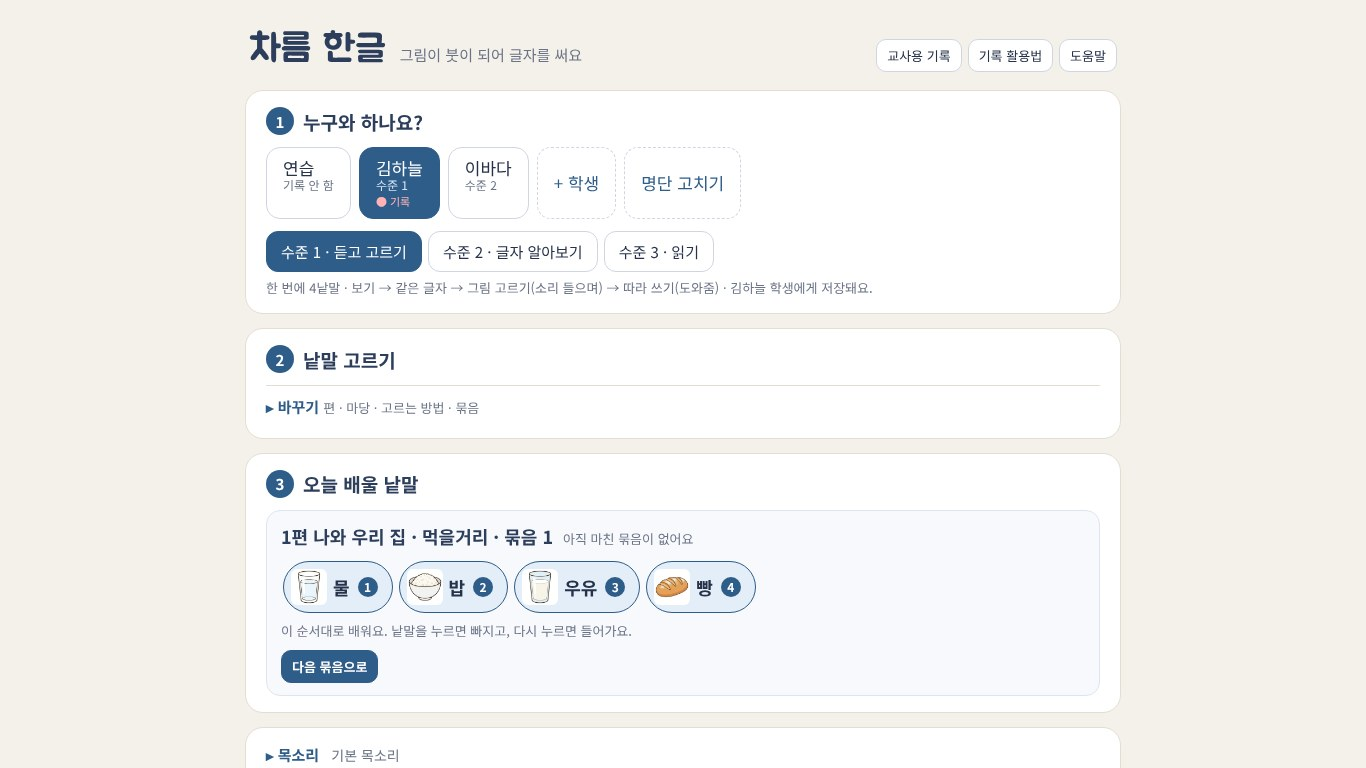
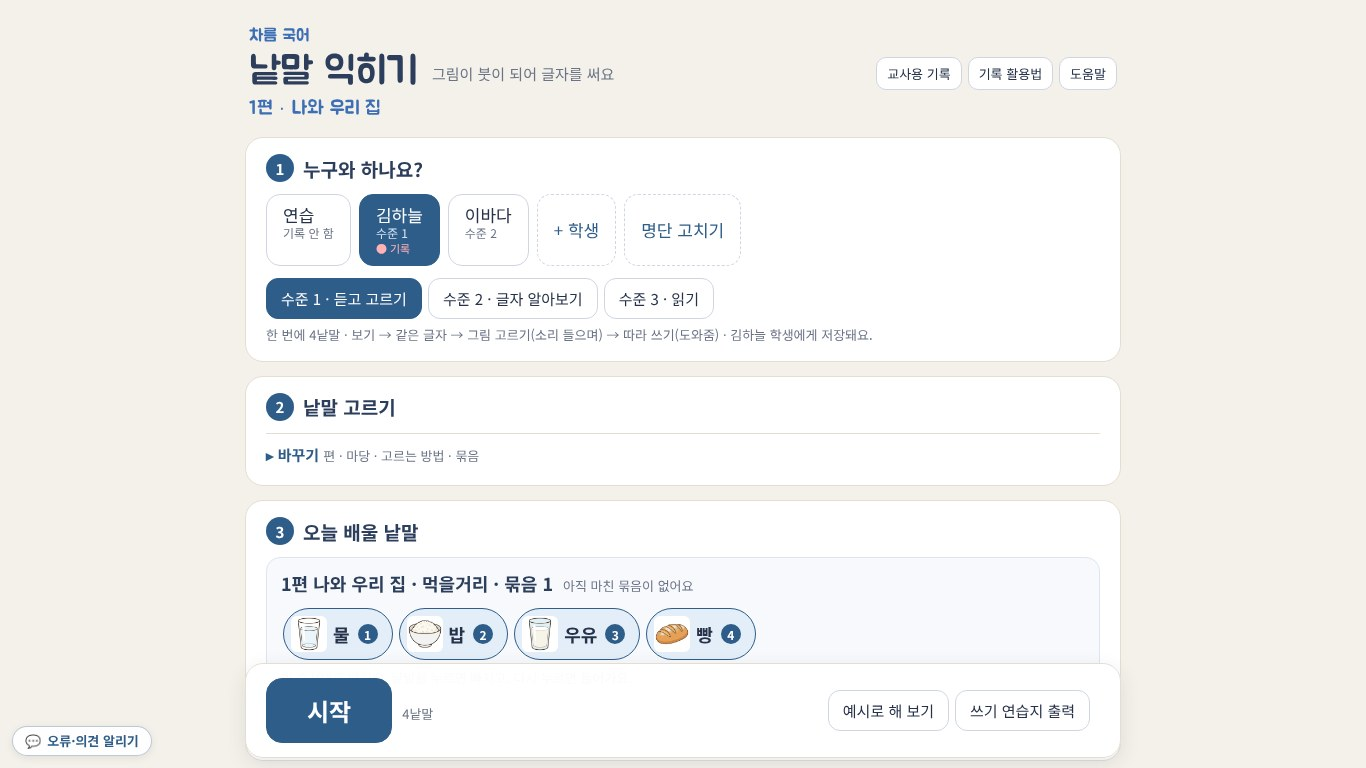
007 제목 '[차름 국어] 낱말 익히기'(1편 판: 1편 · 나와 우리 집): 화면 제목 세 줄(차름 국어 / 낱말 익히기 / 1편 · 나와 우리 집), title·인쇄 머리·확인 창·내가 넣은 낱말 파일, 설명서·자세한 설명·기록 활용법·README·불러오기, 캡처 01·20, 홍보 그림 새로(parts/post.py·split.py 함께). '차름 한글'은 소리 모음 설명·008 자세한 설명에서도 뺌
Claude-Session: https://claude.ai/code/session_01CUt13BUndsbco2DGQb7Riu

diff --git a/007/word-learn_guide.html b/007/word-learn_guide.html
@@ -1,12 +1,12 @@
 <!doctype html>
 <html lang="ko"><head><meta charset="utf-8"><meta name="viewport" content="width=device-width,initial-scale=1">
-<title>차름 한글 · 자세한 설명</title>
+<title>[차름 국어] 낱말 익히기 — 자세한 설명</title>
 <link href="https://fonts.googleapis.com/css2?family=Noto+Sans+KR:wght@400;700&display=swap" rel="stylesheet">
 <style>body{margin:0;background:#F4F1EA;padding:24px 16px 60px}</style>
 </head><body>
 <div style="max-width:860px;margin:0 auto;background:#fff;border-radius:16px;padding:24px 22px;font-family:'Noto Sans KR',sans-serif;color:#26324A;line-height:1.7;font-size:16px;">
 
-<h2 style="font-size:24px;margin:0 0 6px;color:#2C3E5C;">차름 한글 · 자세한 설명 <span style="font-size:15px;color:#6B7487;font-weight:400;">버전 1</span></h2>
+<h2 style="font-size:24px;margin:0 0 6px;color:#2C3E5C;">[차름 국어] 낱말 익히기 · 자세한 설명 <span style="font-size:15px;color:#6B7487;font-weight:400;">버전 1</span></h2>
 <p style="margin:0 0 6px;color:#5A6378;font-size:15px;"><b>차름</b>은 '처음'이라는 뜻으로 백기완 선생이 즐겨 쓰던 우리말입니다. 글자를 처음 배우는 학생들의 첫걸음이 되기를 바라며 지었습니다.</p>
 <p style="margin:0 0 18px;color:#6B7487;">지금 1편 · 생활 낱말 통글자 읽기·쓰기 · 듣기 약 1.5~6세 수준 · 조금 다룰 수 있는 학생은 혼자, 아니면 선생님과 함께</p>
 
@@ -70,5 +70,5 @@
 </ul>
 </div>
 
-<p style="text-align:center;margin:24px 0 0"><a href="https://www.charum.org/study/007/word-learn-1.html" style="display:inline-block;background:#2F5D8A;color:#fff;font-weight:700;font-size:20px;padding:14px 34px;border-radius:14px;text-decoration:none;font-family:'Noto Sans KR',sans-serif">▶ 차름 한글 열기</a></p>
+<p style="text-align:center;margin:24px 0 0"><a href="https://www.charum.org/study/007/word-learn-1.html" style="display:inline-block;background:#2F5D8A;color:#fff;font-weight:700;font-size:20px;padding:14px 34px;border-radius:14px;text-decoration:none;font-family:'Noto Sans KR',sans-serif">▶ 낱말 익히기 열기</a></p>
 </body></html>

diff --git a/007/word-learn_manual.html b/007/word-learn_manual.html
@@ -4,7 +4,7 @@
 
 <div style="background:#FFF6DC;border:1px solid #EED48A;border-radius:12px;padding:12px 16px;margin:0 0 14px;color:#5A4300;font-size:15px;line-height:1.7;">이 글은 <b>1편 나와 우리 집(98낱말)</b>입니다. <b>2편 안전하게 · 3편 학교에서 · 4편 마을에서 · 5편 일터에서</b>는 낱말·그림·소리를 확인하고 보강하는 대로 한 달쯤 간격으로 새 글로 엽니다. 같은 기기에서 이 주소(charum.org)로 쓰시면 학생 기록과 멈춘 곳이 편을 넘어 이어지고, 앞 편에서 어려웠던 낱말은 다음 편에서도 한두 개씩 다시 나옵니다. 모든 편을 다 열면 한 화면에서 고르는 통합본도 함께 엽니다. 써 보시고 고칠 점을 알려 주시면 다음 편에 함께 넣겠습니다.</div>
 
-<p style="margin:0 0 14px;"><img src="https://shim-sung-hyun.github.io/web_app/007/word-learn-promo.jpg" alt="차름 한글 1편 나와 우리 집" style="width:100%;border-radius:14px;display:block;"></p>
+<p style="margin:0 0 14px;"><img src="https://shim-sung-hyun.github.io/web_app/007/word-learn-promo.jpg" alt="[차름 국어] 낱말 익히기 1편 · 나와 우리 집" style="width:100%;border-radius:14px;display:block;"></p>
 
 <p style="text-align:center;margin:0 0 22px;"><a href="https://www.charum.org/study/007/word-learn-1.html" target="_blank" style="display:inline-block;background:#2F5D8A;color:#fff;font-weight:700;font-size:21px;padding:14px 40px;border-radius:14px;text-decoration:none;">▶ 바로 열기</a></p>
 

diff --git a/007/record-guide.html b/007/record-guide.html
@@ -1,6 +1,6 @@
 <!doctype html>
 <html lang="ko"><head><meta charset="utf-8"><meta name="viewport" content="width=device-width,initial-scale=1">
-<title>차름 한글 · 기록 활용법</title>
+<title>[차름 국어] 낱말 익히기 · 기록 활용법</title>
 <link href="https://fonts.googleapis.com/css2?family=Noto+Sans+KR:wght@400;700&display=swap" rel="stylesheet">
 <style>
 body{margin:0;background:#F4F1EA;padding:24px 16px 60px}
@@ -23,7 +23,7 @@ th{background:#F5F2EA}
 </head><body>
 <div class="w">
 
-<h2>차름 한글 · 기록 활용법</h2>
+<h2>[차름 국어] 낱말 익히기 · 기록 활용법</h2>
 <p class="lead">기록은 학생을 줄 세우려는 것이 아니라, <b>다음 수업을 무엇으로 할지</b> 정하는 데 쓰는 것입니다. 이 글은 가상의 학생 <b>홍길동</b>이 한 달 동안 쓴 기록을 예로 들어, 기록을 읽는 법과 앱이 기록으로 학습을 돕는 방법을 설명합니다.</p>
 <p class="lead">앱에서 직접 보려면 <b>교사용 기록 → 예시 보기 (홍길동)</b>을 누르십시오. 예시는 이 기기의 기록에 들어가지 않습니다.</p>
 
@@ -120,5 +120,5 @@ th{background:#F5F2EA}
 </div>
 
 </div>
-<p style="text-align:center;margin:24px 0 0"><a class="btnl" href="https://www.charum.org/study/007/word-learn-1.html">▶ 차름 한글 열기</a></p>
+<p style="text-align:center;margin:24px 0 0"><a class="btnl" href="https://www.charum.org/study/007/word-learn-1.html">▶ 낱말 익히기 열기</a></p>
 </body></html>

diff --git a/008/animal-home_guide.html b/008/animal-home_guide.html
@@ -36,7 +36,7 @@ li{margin:3px 0}
 <section id="s1"><h2><span class="n">1</span>무엇을 배우나</h2>
 <p><b>서식지</b>는 동물이 자연에서 먹고, 쉬고, 새끼를 낳으며 지내는 곳입니다. 이 앱은 "이 동물은 어디에 살까?"와 "여기에는 어떤 동물이 살까?"를 양쪽으로 익힙니다.</p>
 <p>순서는 초등 3학년 과학 「동물의 생활」을 따릅니다. 땅과 물에서 사는 동물을 먼저 익히고, 땅속과 하늘(날아다니는 동물)을 거쳐, 숲·사막·극지·바다처럼 구체적인 곳으로 넓혀 갑니다.</p>
-<div class="tip">동물 그림은 대부분 차름 한글(007)의 낱말 그림과 같습니다. 학생은 이미 아는 동물 그림을 보면서 "사는 곳" 한 가지만 새로 배웁니다. 동물 그림에는 배경이 없어서, 그림이 답을 알려 주지 않습니다.</div>
+<div class="tip">동물 그림은 대부분 낱말 익히기(007)의 낱말 그림과 같습니다. 학생은 이미 아는 동물 그림을 보면서 "사는 곳" 한 가지만 새로 배웁니다. 동물 그림에는 배경이 없어서, 그림이 답을 알려 주지 않습니다.</div>
 </section>
 
 <section id="s2"><h2><span class="n">2</span>수준과 고르는 방식</h2>

diff --git a/007/server-loader-1.html b/007/server-loader-1.html
@@ -1,10 +1,10 @@
 <!doctype html>
 <html lang="ko"><head><meta charset="utf-8"><meta name="viewport" content="width=device-width,initial-scale=1">
-<title>차름 한글 1편 나와 우리 집</title>
+<title>[차름 국어] 낱말 익히기 1편 · 나와 우리 집</title>
 <style>body{margin:0;background:#FAF7F0;font-family:'Noto Sans KR','Apple SD Gothic Neo',sans-serif;color:#2C3E5C;display:flex;align-items:center;justify-content:center;height:100vh}</style>
 </head><body><p id="m">불러오고 있습니다…</p>
 <script>
-/* 차름 한글 불러오기: 이 파일만 내 서버에 둔다. 앱 본문은 GitHub에서 가져와 이 주소에서 펼친다(기록은 이 기기·이 주소에). */
+/* [차름 국어] 낱말 익히기 불러오기: 이 파일만 내 서버에 둔다. 앱 본문은 GitHub에서 가져와 이 주소에서 펼친다(기록은 이 기기·이 주소에). */
 (function () {
   var APP = 'https://shim-sung-hyun.github.io/web_app/007/word-learn-1.html';
   fetch(APP, { cache: 'no-cache' }).then(function (r) { if (!r.ok) throw 0; return r.text(); })

diff --git a/007/server-loader.html b/007/server-loader.html
@@ -1,10 +1,10 @@
 <!doctype html>
 <html lang="ko"><head><meta charset="utf-8"><meta name="viewport" content="width=device-width,initial-scale=1">
-<title>차름 한글</title>
+<title>[차름 국어] 낱말 익히기</title>
 <style>body{margin:0;background:#FAF7F0;font-family:'Noto Sans KR','Apple SD Gothic Neo',sans-serif;color:#2C3E5C;display:flex;align-items:center;justify-content:center;height:100vh}</style>
 </head><body><p id="m">불러오고 있습니다…</p>
 <script>
-/* 차름 한글 불러오기: 이 파일만 내 서버에 둔다. 앱 본문은 GitHub에서 가져와 이 주소에서 펼친다(기록은 이 기기·이 주소에). */
+/* [차름 국어] 낱말 익히기 불러오기: 이 파일만 내 서버에 둔다. 앱 본문은 GitHub에서 가져와 이 주소에서 펼친다(기록은 이 기기·이 주소에). */
 (function () {
   var APP = 'https://shim-sung-hyun.github.io/web_app/007/word-learn.html';
   fetch(APP, { cache: 'no-cache' }).then(function (r) { if (!r.ok) throw 0; return r.text(); })

diff --git a/007/word-learn-beta.html b/007/word-learn-beta.html
@@ -1,7 +1,7 @@
 <!doctype html>
 <html lang="ko"><head><meta charset="utf-8"><meta name="viewport" content="width=device-width,initial-scale=1">
-<title>차름 한글</title>
+<title>[차름 국어] 낱말 익히기</title>
 <meta http-equiv="refresh" content="0; url=word-learn.html">
 <script>location.replace('word-learn.html' + location.search + location.hash);</script>
 <style>body{margin:0;background:#F4F1EA;font-family:'Noto Sans KR','Apple SD Gothic Neo',sans-serif;color:#2C3E5C;display:flex;align-items:center;justify-content:center;height:100vh}</style>
-</head><body><p>차름 한글 정식판으로 옮겼습니다. <a href="word-learn.html">여기를 눌러 열어 주세요.</a></p></body></html>
+</head><body><p>낱말 익히기 정식판으로 옮겼습니다. <a href="word-learn.html">여기를 눌러 열어 주세요.</a></p></body></html>
